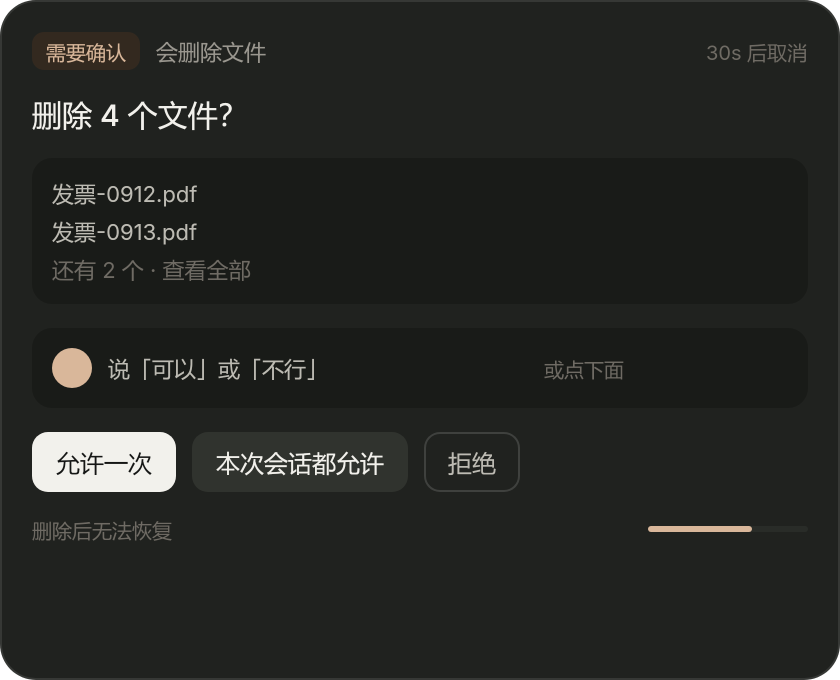
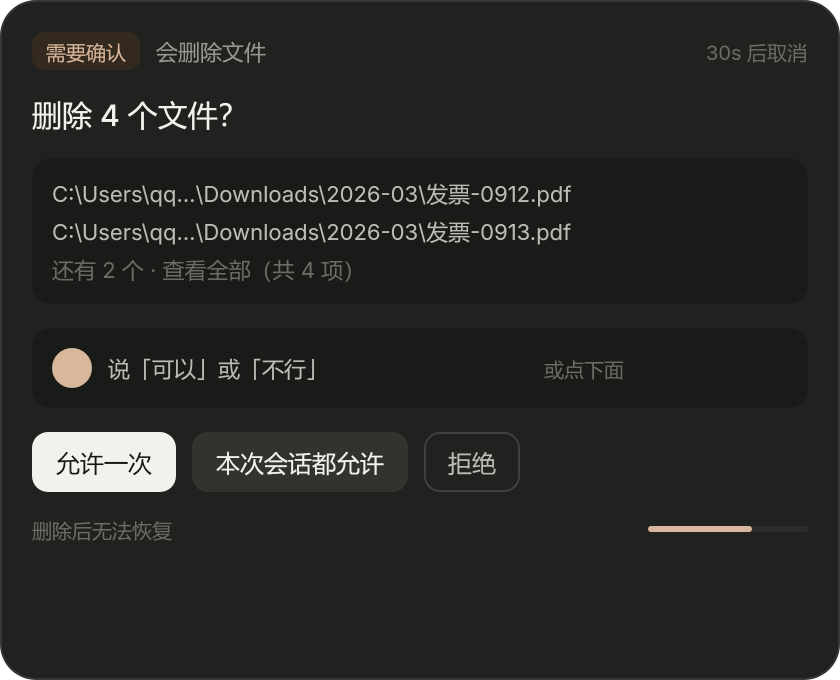
design: add reader artboard 14 and long-text overflow matrix

Changed region(s): [[0.0619, 0.2471, 0.681, 0.4324]]

diff --git a/docs/design-v1.md b/docs/design-v1.md
@@ -17,6 +17,7 @@
 | 11 | 错误状态 | 端点错误横幅、ASR 失败行、任务失败条、失败卡片 |
 | 12 | 模型仓库 | 模型列表 + 测试状态 + 功能模块绑定 |
 | 13 | 模型详情 | Base URL / Model ID / Key、参数、自定义请求头 |
+| 14 | 长文阅读器 | 正文"展开全文"之后的归宿：全文 + 来源 + 复制/引用 |
 
 ![01 主时间线](assets/design-01-timeline.png)
 ![02 运行中](assets/design-02-running.png)
@@ -31,16 +32,26 @@
 ![11 错误状态](assets/design-11-errors.png)
 ![12 模型仓库](assets/design-12-models.png)
 ![13 模型详情](assets/design-13-model-detail.png)
+![14 长文阅读器](assets/design-14-reader.png)
 
-## 长文与折叠规则（10）
+## 长文与折叠规则（10 / 14）
 
-| 对象 | 折叠阈值 | 展开方式 | 截断提示 |
-|---|---|---|---|
-| 正文 | 6 行 | 「展开全文（约 N 字）」 | 保留首段，不截半句 |
-| 思考 | 默认折叠 | 「思考 8s · 1,240 字 展开」 | 只露第一行 |
-| 工具输出 | 8 行 / 2k 字符 | 「12.4k 字符 · 展开」 | 首尾各留几行，中间省略 |
-| 审批列表 | 3 项 | 「还有 N 项 · 查看全部」 | 保留目标路径 |
-| 会话标题 | 1 行 | 悬浮显示全名 | 省略号 |
+**两种省略号不能混用**：散文用尾部省略（结尾 `…`），路径 / URL / 模型 ID 用**中间省略**（保留头尾、中间 `…`），因为尾部才是人要找的东西。
+
+| 界面 | 超长内容 | 策略 |
+|---|---|---|
+| 时间线正文 | 长段落 | 6 行 + 「展开全文（约 N 字）」→ 打开 14 阅读器 |
+| 阅读器（14） | 极长文 | 独立面板：全文 + 来源 + 复制 / 引用 |
+| 思考 | 长思考 | 默认折叠，一行摘要 + 「思考 8s · 1,240 字」 |
+| 工具输出 | 大 JSON / 树 | 8 行或 2k 字符，首尾保留，中间省略 |
+| 审批卡 / 浮窗（09） | 多文件、长路径 | 3 项 + 中间省略路径 + 「还有 N 项（共 M）」 |
+| 任务条 | 长工具参数 | 单行省略，点开过程日志看全量 |
+| 会话列表 / 悬浮卡 | 长标题 / 窗口名 | 单行尾部省略，hover 出全名 |
+| 错误（11） | 堆栈、上游原文 | 人话摘要 + 「查看原始错误（12 行）」折叠 |
+| 设置 / 模型（08/12/13） | 长 URL、model id | 中间省略 + 复制按钮 |
+| 输入框 | 长转写 | 内部滚动、可编辑，不撑高窗口 |
+
+规则：**展开永远收敛到"阅读器 / 日志 / 详情"三个落点**，不允许在时间线里无限拉高——时间线只长消息，不长内容。
 
 ## 错误状态规则（11）
 
